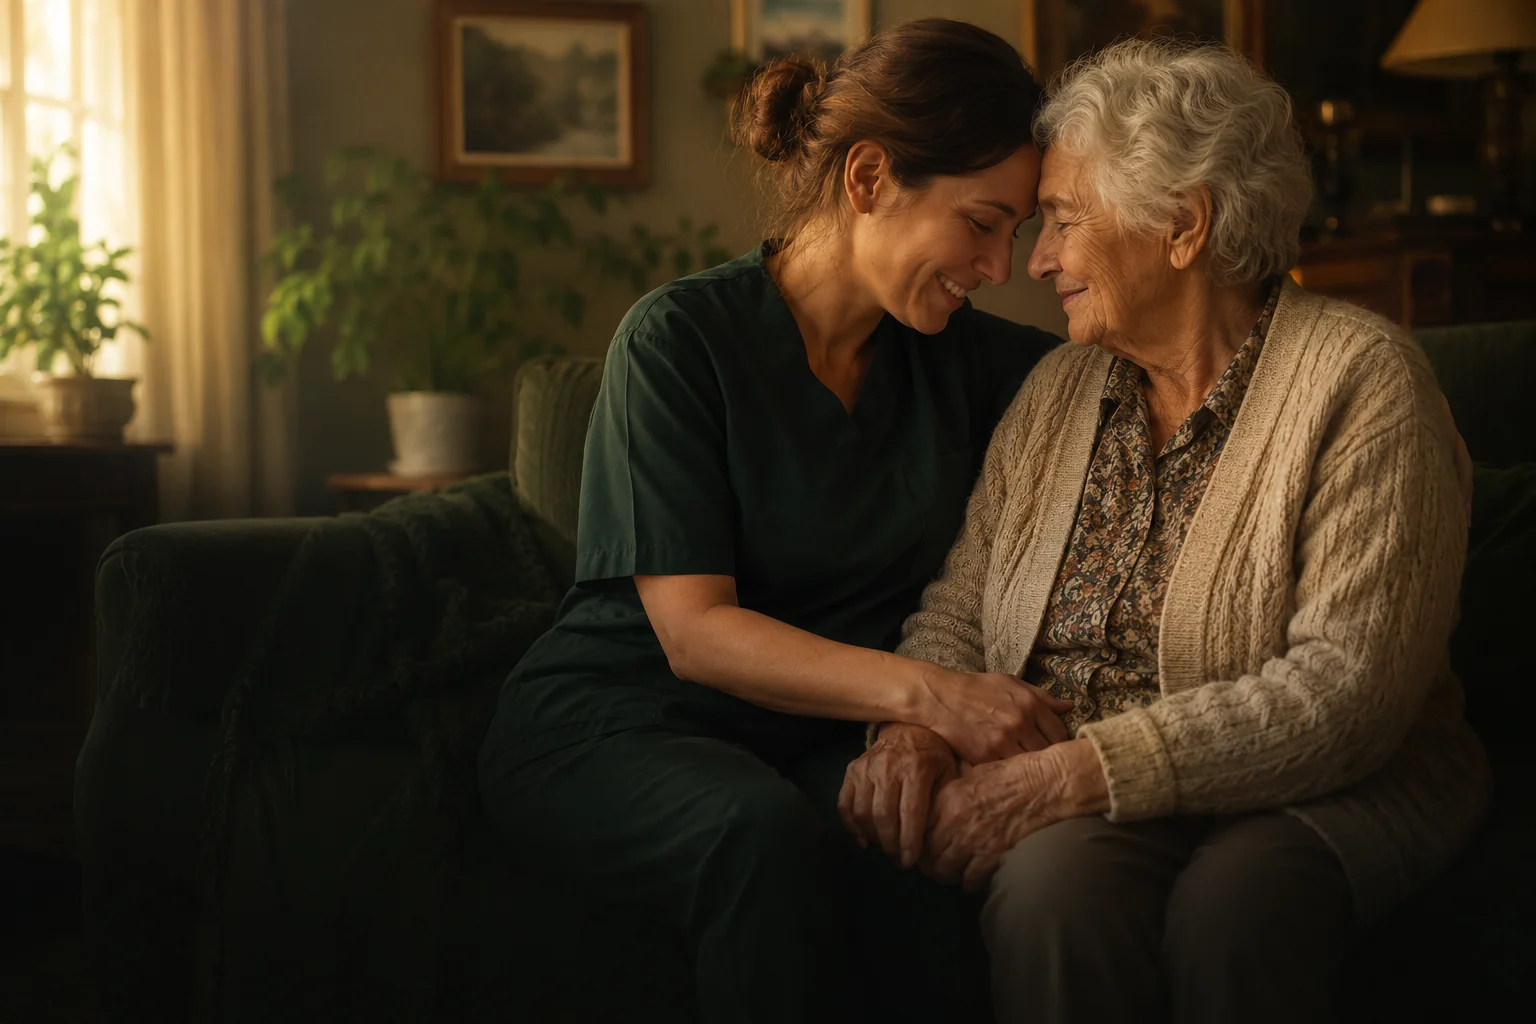
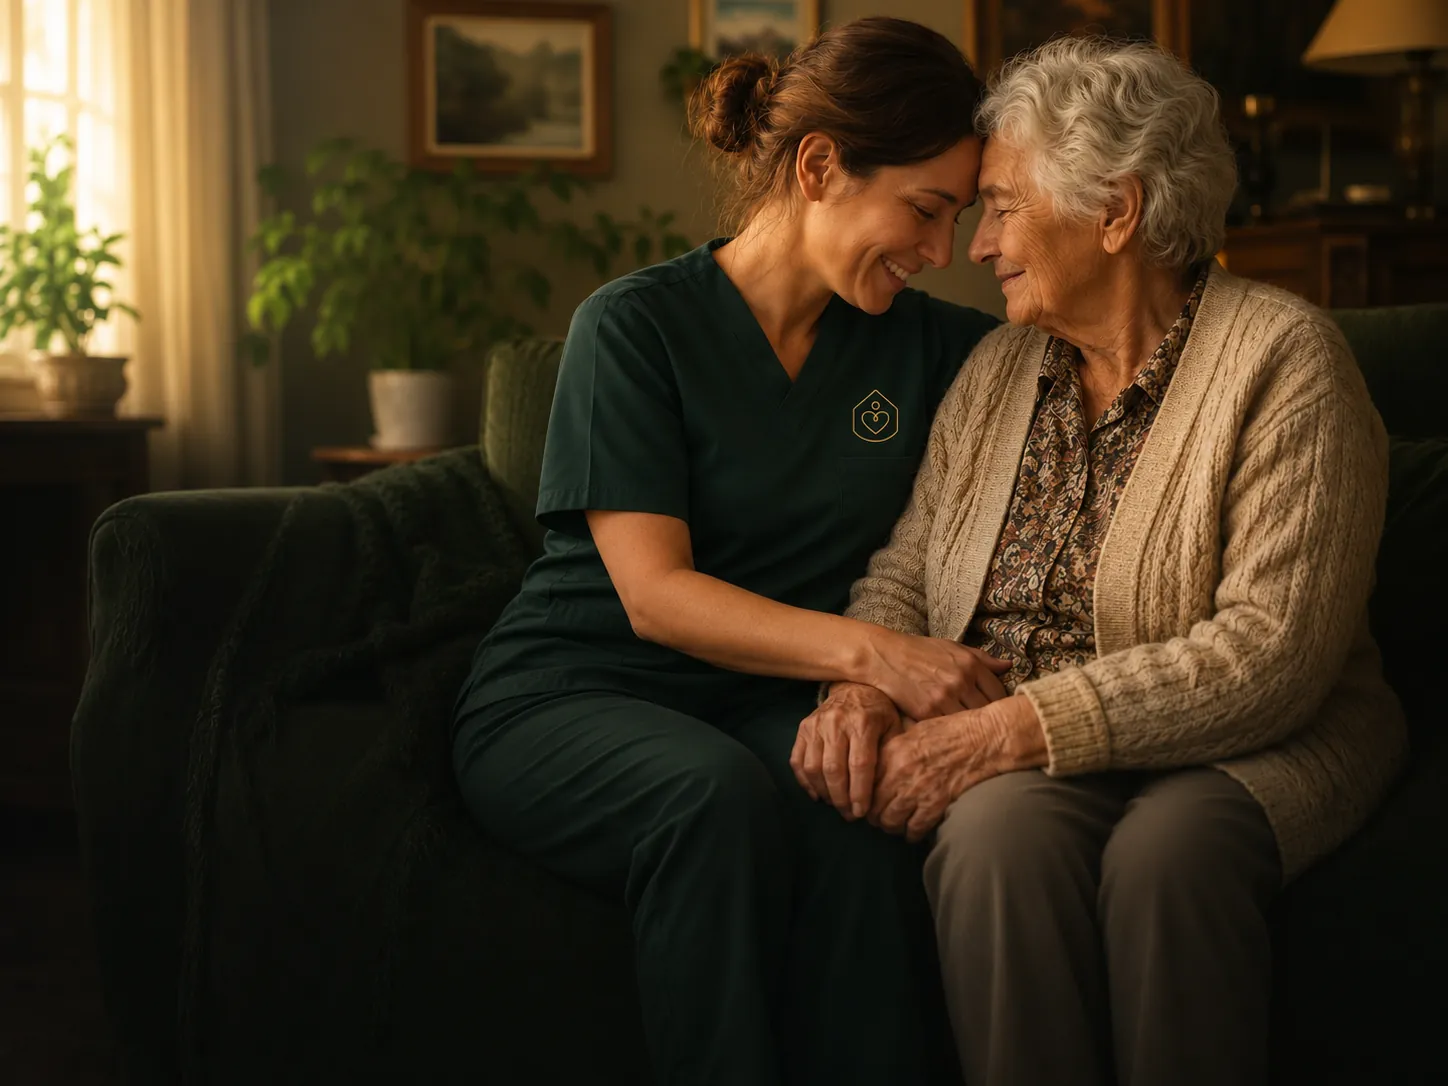
Novy obrazek lidkost na uvodni strane (WebP, 1448x1086, 90 kB) s ?v=2 kvuli trvale mezipameti

diff --git a/index.html b/index.html
@@ -43,7 +43,7 @@ src="https://www.facebook.com/tr?id=4647827512166449&ev=PageView&noscript=1"
 <link rel="preconnect" href="https://fonts.googleapis.com">
 <link rel="preconnect" href="https://fonts.gstatic.com" crossorigin>
 <link href="https://fonts.googleapis.com/css2?family=Marcellus&family=Hanken+Grotesk:wght@400;500;600;700&display=swap" rel="stylesheet">
-<link rel="preload" as="image" href="/lidkost.webp" fetchpriority="high">
+<link rel="preload" as="image" href="/lidkost.webp?v=2" fetchpriority="high">
 <link rel="stylesheet" href="/app.css">
 </head>
 <body>
@@ -171,7 +171,7 @@ src="https://www.facebook.com/tr?id=4647827512166449&ev=PageView&noscript=1"
       </div>
       <figure class="zv-arch">
         <svg class="zv-arch-frame" viewBox="0 0 100 125" preserveAspectRatio="none" aria-hidden="true" focusable="false"><path pathLength="1" d="M-4.7 123.3 L-4.7 54.7 A50 50 0 0 1 95.3 54.7 L95.3 123.3 Q95.3 129.7 88.9 129.7 L1.7 129.7 Q-4.7 129.7 -4.7 123.3 Z"/></svg>
-        <img src="/lidkost.webp" alt="Pečovatelka drží za ruku starší paní v obývacím pokoji" width="1536" height="1024" fetchpriority="high" decoding="async">
+        <img src="/lidkost.webp?v=2" alt="Pečovatelka drží za ruku starší paní v obývacím pokoji" width="1448" height="1086" fetchpriority="high" decoding="async">
       </figure>
     </div>
    </div>
